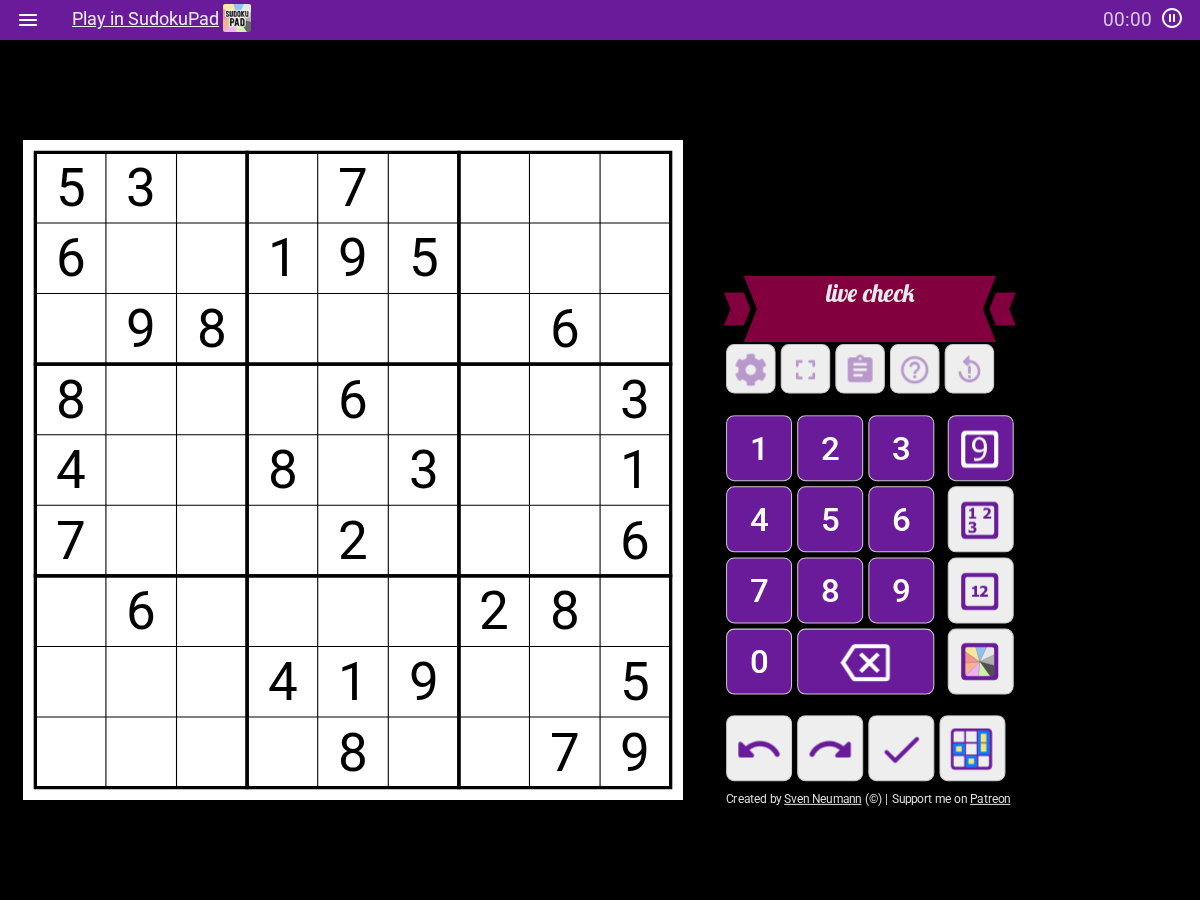
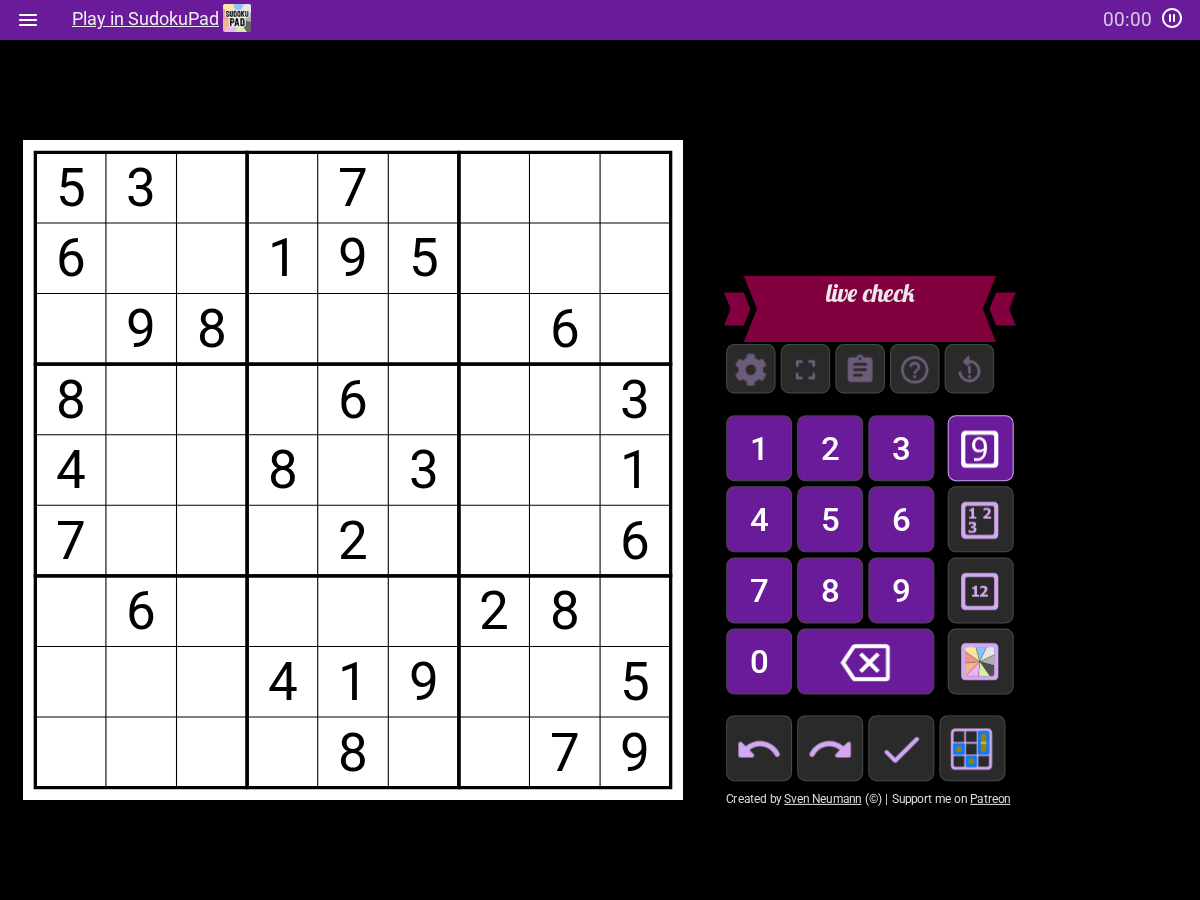
Dark Page: dark control buttons when the page color is dark
On a dark page color (the same textColorFor test the footer text uses)
the control buttons go dark gray with light purple icons; a light page
color keeps SudokuPad's buttons. Unit tests on buildCss, live checks,
retaken screenshot, docs and version 0.3.0.

Closes #52

Changed region(s): [[0.5858, 0.3733, 0.8633, 0.8711]]

diff --git a/dark-page.user.js b/dark-page.user.js
@@ -1,8 +1,8 @@
 // ==UserScript==
 // @name         SudokuPad Dark Page
 // @namespace    https://github.com/caneff/sudokupad-scripts
-// @version      0.2.0
-// @description  Makes the page black around the puzzle, or another color chosen in a settings dialog. A rectangle bounding everything the puzzle draws, and the cells a solver writes in, stays as SudokuPad renders it. Not SudokuPad's dark mode.
+// @version      0.3.0
+// @description  Makes the page black around the puzzle, or another color chosen in a settings dialog, with dark control buttons on a dark page. A rectangle bounding everything the puzzle draws, and the cells a solver writes in, stays as SudokuPad renders it. Not SudokuPad's dark mode.
 // @match        https://sudokupad.app/*
 // @match        https://*.sudokupad.app/*
 // @match        https://crackingthecryptic.com/*
@@ -18,7 +18,7 @@
 
   // Shown in the settings, and the same as @version above. The script cannot read its own header
   // (GM_info is absent when it runs without Tampermonkey), so the number is kept here too.
-  const VERSION = '0.2.0'
+  const VERSION = '0.3.0'
   // The settings group the entry goes in; SudokuPad declares it, and the dialog starts it collapsed.
   const SETTINGS_GROUP = 'experimental'
   const STYLE_ID = 'dark-page-style'
@@ -29,6 +29,11 @@
   // Page text that sits straight on the page background: light on a dark page, dark on a light one.
   const LIGHT_TEXT = '#dddddd'
   const DARK_TEXT = '#222222'
+  // SudokuPad's control buttons on a dark page: dark gray with light purple icons, so the light
+  // `#eee` buttons do not glare. The selected mode button keeps a purple border.
+  const BUTTON_BG = '#2a2a2a'
+  const BUTTON_ICON = '#d2a8f0'
+  const BUTTON_BORDER = '#4a4a4a'
   // White kept beyond the tightest box, in page pixels, before it is rounded outward: covers the
   // antialiasing and a text outline filter, which the elements' boxes leave out.
   const PAD = 1
@@ -85,12 +90,22 @@
   // svg itself changes its antialiasing, so the board's own elements are left alone. The div's
   // position, stacking and box are set inline, so with this stylesheet off it is a transparent div
   // that changes nothing.
+  // The control buttons turn dark only when the page does (the same test the footer text uses), and
+  // the colors of the svg-painted icons and color swatches are not touched: only the button's own
+  // background, text color and border are.
   function buildCss (pageColor) {
     const rule = (selector, ...declarations) => `${selector} { ${declarations.map((d) => `${d} !important`).join('; ')} }`
+    const textColor = textColorFor(pageColor)
+    const darkButtons = [
+      rule('.controls-app button, .controls-tool button:not(.selected), .controls-aux button', `background-color: ${BUTTON_BG}`, `color: ${BUTTON_ICON}`, `border-color: ${BUTTON_BORDER}`),
+      rule('.controls-tool button.selected', `border-color: ${BUTTON_ICON}`),
+      rule('.button-row button', `border-color: ${BUTTON_BORDER}`)
+    ]
     return [
       rule('body', `background-color: ${pageColor}`),
       rule(`#${RECT_ID}`, 'background-color: var(--body-bg)'),
-      rule('.controls-footer, .controls-footer a', `color: ${textColorFor(pageColor)}`)
+      rule('.controls-footer, .controls-footer a', `color: ${textColor}`),
+      ...(textColor === LIGHT_TEXT ? darkButtons : [])
     ].join('\n')
   }
 

diff --git a/dark-page.test.js b/dark-page.test.js
@@ -61,6 +61,29 @@ test('the credit line takes the text color for the page color given', () => {
   assert.equal(credit('#000000'), '.controls-footer, .controls-footer a { color: #dddddd !important }')
 })
 
+// The one-line rules of buildCss(color) whose selector mentions a control button.
+const buttonRules = (color) => buildCss(color).split('\n').filter((line) => /button/.test(line.split(' {')[0]))
+
+test('on a dark page color the control buttons go dark gray with light purple icons, and the selected mode button keeps a purple border', () => {
+  assert.deepEqual(buttonRules('#000000'), [
+    '.controls-app button, .controls-tool button:not(.selected), .controls-aux button { background-color: #2a2a2a !important; color: #d2a8f0 !important; border-color: #4a4a4a !important }',
+    '.controls-tool button.selected { border-color: #d2a8f0 !important }',
+    '.button-row button { border-color: #4a4a4a !important }'
+  ])
+  assert.equal(buttonRules('#0000ff').length, 3)
+})
+
+test('on a light page color SudokuPad\'s buttons are left as they are', () => {
+  assert.deepEqual(buttonRules('#ffffff'), [])
+  assert.deepEqual(buttonRules('#ffcc00'), [])
+})
+
+test('the buttons switch exactly where the credit text does', () => {
+  for (const color of ['#000000', '#333333', '#707070', '#777777', '#cccccc', '#ffffff', '#0000ff', '#ffff00']) {
+    assert.equal(buttonRules(color).length > 0, textColorFor(color) === '#dddddd', color)
+  }
+})
+
 test('savedColor reads a saved #rrggbb string as lowercase, and anything else as nothing saved', () => {
   assert.equal(savedColor('#336699'), '#336699')
   assert.equal(savedColor('#ABCDEF'), '#abcdef')

diff --git a/site/index.html b/site/index.html
@@ -74,7 +74,7 @@
     <img src="https://raw.githubusercontent.com/caneff/sudokupad-scripts/main/docs/research/dark-page.png" alt="A puzzle on a black page" width="360" height="270">
     <div>
       <h2>Dark Page</h2>
-      <p>Turns the page black around the puzzle, or any color you pick. The puzzle and the cells you write in stay as SudokuPad draws them. It is not SudokuPad's dark mode.</p>
+      <p>Turns the page black around the puzzle, or any color you pick, and darkens the control buttons to match. The puzzle and the cells you write in stay as SudokuPad draws them. It is not SudokuPad's dark mode.</p>
       <p><a class="install" href="https://raw.githubusercontent.com/caneff/sudokupad-scripts/main/dark-page.user.js">Install Dark Page</a></p>
     </div>
   </section>

diff --git a/README.md b/README.md
@@ -10,7 +10,7 @@ Install [Tampermonkey](https://www.tampermonkey.net/), then open a script's link
 - [Digit Color](https://raw.githubusercontent.com/caneff/sudokupad-scripts/main/digit-color.user.js): colors the digits themselves, one color per digit, in entered digits, corner marks and centre marks. Starts from default colors; change them in a settings dialog. Givens keep their color; a conflicting mark keeps its digit color and gets a small red circle behind it.
 - [Pen Color](https://raw.githubusercontent.com/caneff/sudokupad-scripts/main/pen-color.user.js): changes the pen tool's nine colors in a settings dialog. Strokes already drawn and the tool's color buttons change with them. With nothing saved, the nine pen colors are your current cell color page, darkened, each pen on the same button number as its cell color (pen 1 takes the page's color on button 1, and so on; button 0 is not used), with the darkest grey turned black, so installing changes the pen colors straight away; a cell color that is transparent or unreadable leaves SudokuPad's own pen color on that button; edit and Save to keep your own, and Restore defaults goes back to the darkened page. Holding a pen color button for a second (with either mouse button) puts a color picker over each button, as the cell color tool does: click one to open the picker, and the pen changes live and the set is saved; hold again, or leave the pen tool, to close them. The colors are read when the page loads, so changing cell colors later does not move the pen until the next load. Turn the pen tool on in settings first.
 - [Edge Marks](https://raw.githubusercontent.com/caneff/sudokupad-scripts/main/edge-marks.user.js): adds direction arrows (`>` `<` on a vertical edge, `^` `v` on a horizontal one) and a dot to the pen tool's marks on a cell edge. Clicking an edge cycles through the marks ticked in a settings dialog; the pen tool's own X is one of them. It wraps SudokuPad's pen tool and renderer, which are internals, so a SudokuPad update can break it, and it then leaves the pen tool unchanged. Turn the pen tool on in settings first.
-- [Dark Page](https://raw.githubusercontent.com/caneff/sudokupad-scripts/main/dark-page.user.js): makes the page black around the puzzle, or another color you pick in a settings dialog (a color picker, and a Black button to go back); the choice is kept and applies without a reload, and the page's own text turns dark on a light color. A rectangle bounding everything the puzzle draws, and the cells you write in, stays as SudokuPad renders it. Not SudokuPad's dark mode.
+- [Dark Page](https://raw.githubusercontent.com/caneff/sudokupad-scripts/main/dark-page.user.js): makes the page black around the puzzle, or another color you pick in a settings dialog (a color picker, and a Black button to go back); the choice is kept and applies without a reload, and the page's own text turns dark on a light color. On a dark color the control buttons go dark gray with light purple icons; on a light one they stay as SudokuPad draws them. A rectangle bounding everything the puzzle draws, and the cells you write in, stays as SudokuPad renders it. Not SudokuPad's dark mode.
 
 Each script adds an entry to SudokuPad's settings, under the Experimental group (collapsed until you open it). The entry shows the script's name; its dialog shows the version in small text beside the heading, so you can tell which one is installed.
 

diff --git a/docs/research/sudokupad-theme-colors.md b/docs/research/sudokupad-theme-colors.md
@@ -77,3 +77,12 @@ Run for Dark Page (`dark-page.user.js`, issue #14); the notes above were read fr
   disabled), so a page of a matched site that is not a puzzle keeps its white.
 - Screenshots at real size: `dark-page.png` (the sample puzzle as it opens, retaken with
   `dark-page-screenshot.mjs`) and `dark-page-outside-text.png` (a 6x6 with clue text outside the grid).
+- Control buttons on a dark page (Dark Page 0.3.0, checked live on 2026-11-03): SudokuPad's
+  own are `#eee` with `#ccc` borders. The script's rules apply only when `textColorFor` gives
+  light text, set `#2a2a2a` / `#d2a8f0` / `#4a4a4a` on `.controls-app`, `.controls-tool`
+  (not `.selected`) and `.controls-aux` buttons, and the softer border on `.button-row button`.
+  Hover on undo changes nothing with the script on or off; hover on a digit or mode button is
+  `filter: brightness(1.25)`, which the rules do not touch. Color swatches, the pen tool's
+  white swatches and its mode select, and the svg-painted icons keep their own colors; a
+  button added to `.controls-aux` (Color by Digit) goes dark with the rest. `dark-page.png`
+  was retaken with the buttons dark.
